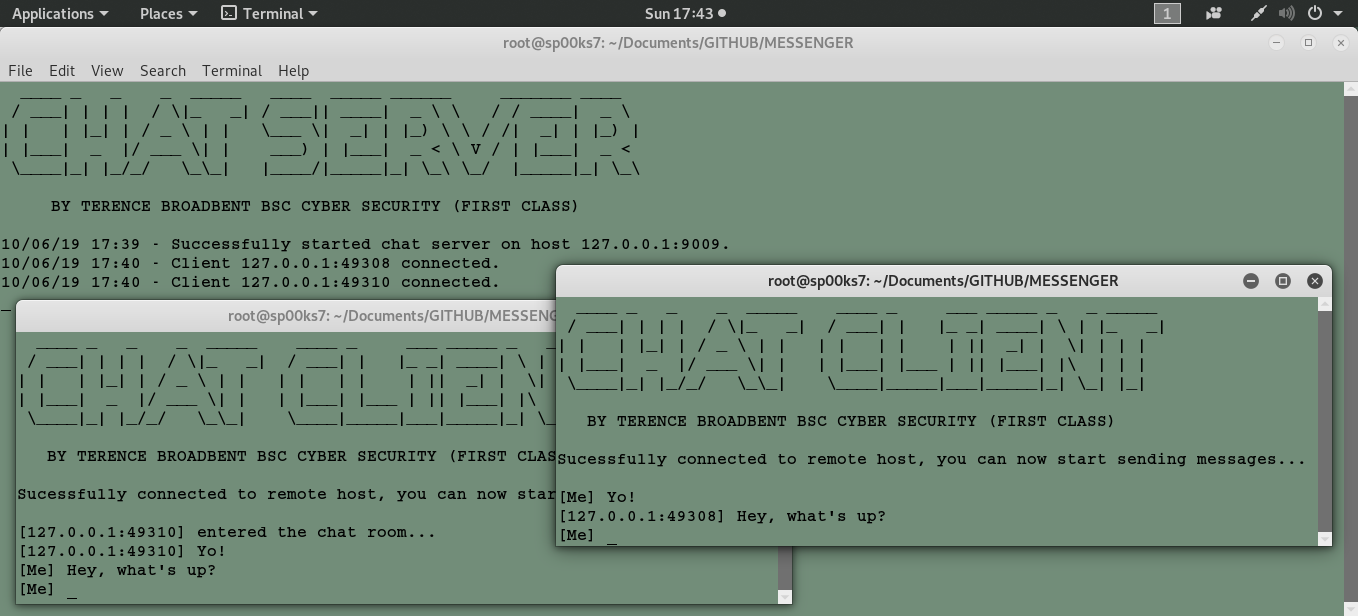
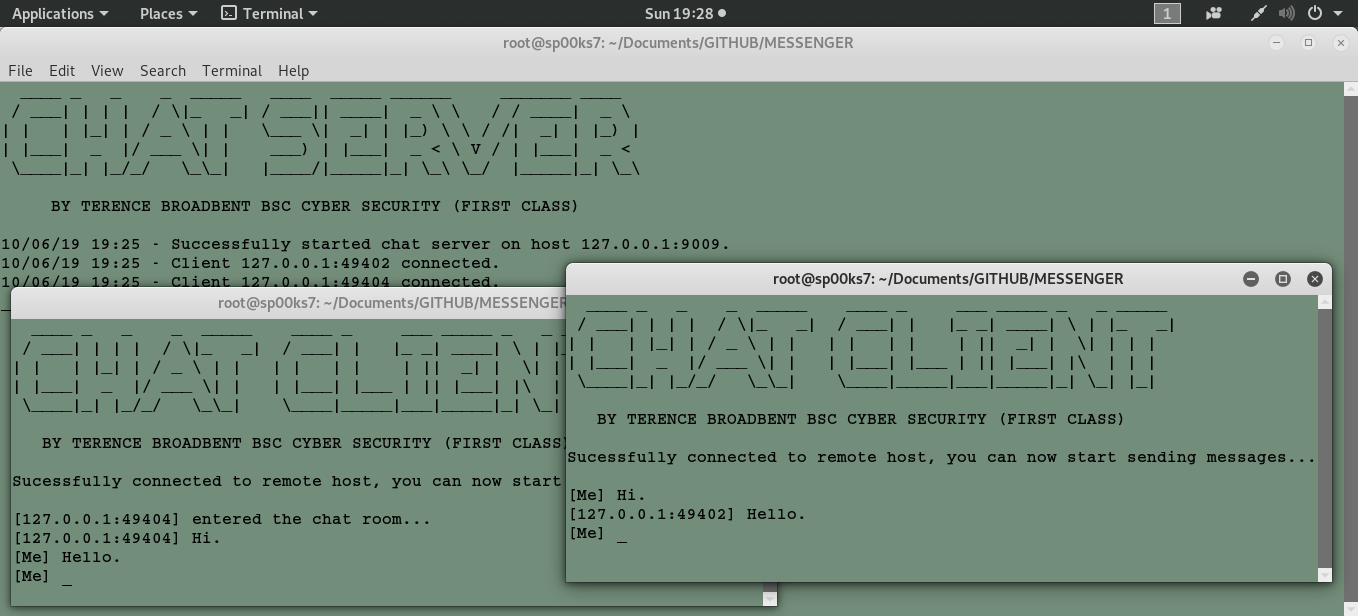
changes

Changed region(s): [[0.0, 0.401, 0.9897, 0.987], [0.4948, 0.0, 0.5258, 0.0308]]

diff --git a/client.py b/client.py
@@ -2,7 +2,7 @@
 # coding:UTF-8
 
 # -------------------------------------------------------------------------------------
-#                      A SIMPLE PYTHON SCRIPT FILE CHAT CLIENT
+#                     A SIMPLE PYTHON SCRIPT FILE - CHAT CLIENT
 #               BY TERENCE BROADBENT BSc CYBER SECURITY (FIRST CLASS)
 # -------------------------------------------------------------------------------------
 
@@ -23,18 +23,18 @@ import select
 # AUTHOR  : Terence Broadbent                                                    
 # CONTRACT: GitHub                                                               
 # Version : 1.0                                                                
-# Details : Display my universal header.
+# Details : Display universal banner.
 # Modified: N/A                                                               
 # -------------------------------------------------------------------------------------
 
 os.system("clear")
-print "\t\t\t\t  ____ _   _    _  _____    ____ _     ___ _____ _   _ _____  "
-print "\t\t\t\t / ___| | | |  / \|_   _|  / ___| |   |_ _| ____| \ | |_   _| "
-print "\t\t\t\t| |   | |_| | / _ \ | |   | |   | |    | ||  _| |  \| | | |   "
-print "\t\t\t\t| |___|  _  |/ ___ \| |   | |___| |___ | || |___| |\  | | |   "
-print "\t\t\t\t \____|_| |_/_/   \_\_|    \____|_____|___|_____|_| \_| |_|   "
-print "\t\t\t\t                                                              "
-print "\t\t\t\t   BY TERENCE BROADBENT BSC CYBER SECURITY (FIRST CLASS)    \n"
+print "  ____ _   _    _  _____    ____ _     ___ _____ _   _ _____  "
+print " / ___| | | |  / \|_   _|  / ___| |   |_ _| ____| \ | |_   _| "
+print "| |   | |_| | / _ \ | |   | |   | |    | ||  _| |  \| | | |   "
+print "| |___|  _  |/ ___ \| |   | |___| |___ | || |___| |\  | | |   "
+print " \____|_| |_/_/   \_\_|    \____|_____|___|_____|_| \_| |_|   "
+print "                                                              "
+print "   BY TERENCE BROADBENT BSC CYBER SECURITY (FIRST CLASS)    \n"
 
 # ------------------------------------------------------------------------------------- 
 # AUTHOR  : Terence Broadbent                                                    
@@ -45,11 +45,12 @@ print "\t\t\t\t   BY TERENCE BROADBENT BSC CYBER SECURITY (FIRST CLASS)    \n"
 # -------------------------------------------------------------------------------------
 
 if(len(sys.argv) < 3):
-   print 'Usage : python client.py hostname port'
+   print "Usage : python client.py host port"
    sys.exit()
 else:
    host = sys.argv[1]
    port = int(sys.argv[2])
+   user = "[Me] "
 
 # ------------------------------------------------------------------------------------- 
 # AUTHOR  : Terence Broadbent                                                    
@@ -59,50 +60,46 @@ else:
 # Modified: N/A
 # -------------------------------------------------------------------------------------
 
-# -------------------------------------------------------------------------------------
-# Main chat client with infinite loop.
-# -------------------------------------------------------------------------------------
+def log(msg):
+   sys.stdout.write(msg)
+   sys.stdout.flush()
  
-def chat_client():   
-   s = socket.socket(socket.AF_INET, socket.SOCK_STREAM)
-   s.settimeout(2)   
-   try :
-      s.connect((host, port))
-   except :
-      print 'Unable to connect?...'
-      sys.exit()     
-
-   print 'Sucessfully connected to remote host, you can now start sending messages...\n'
-   sys.stdout.write('[Me] ')
-   sys.stdout.flush()   
+def client():
+   client = socket.socket(socket.AF_INET, socket.SOCK_STREAM)
+   client.settimeout(2)
+   try:
+      client.connect((host, port))
+      log("Sucessfully connected to remote host, you can now start sending messages...\n\n")
+      log(user)
+   except:
+      log("Unable to connect?...\n")
+      sys.exit()
 
    while 1:
-      socket_list = [sys.stdin, s]
+      socket_list = [sys.stdin, client]
       ready_to_read,ready_to_write,in_error = select.select(socket_list , [], [])
       for sock in ready_to_read:
-         if sock == s:
+         if sock == client:
             data = sock.recv(4096)			# Use 2048 for quicker responce
-            if not data :
-               print '\nDisconnected from chat server...'
+            if not data:
+               log("\n\nDisconnected from chat server?...\n\n")
                sys.exit()
             else :
-               sys.stdout.write(data)
-               sys.stdout.write('[Me] ')
-               sys.stdout.flush()
+               log(data)
+               log(user)
          else :
             msg = sys.stdin.readline()
-            s.send(msg)
-            sys.stdout.write('[Me] ')
-            sys.stdout.flush() 
+            client.send(msg)
+            log(user)
 
 # ------------------------------------------------------------------------------------- 
 # AUTHOR  : Terence Broadbent                                                    
 # CONTRACT: GitHub
-# Version : 1.0                                                                
+# Version : 1.0                                                          	      
 # Details : MAIN - Start the client interface.
 # Modified: N/A
 # -------------------------------------------------------------------------------------
 
-sys.exit(chat_client())
+sys.exit(client())
 
 #Eof

diff --git a/server.py b/server.py
@@ -24,18 +24,18 @@ from datetime import datetime
 # AUTHOR  : Terence Broadbent                                                    
 # CONTRACT: GitHub                                                               
 # Version : 1.0                                                                
-# Details : Display my universal header.
+# Details : Display universal header.
 # Modified: N/A                                                               
 # -------------------------------------------------------------------------------------
 
 os.system("clear")
-print "\t\t\t\t  ____ _   _    _  _____   ____  _____ ______     _______ ____   "
-print "\t\t\t\t / ___| | | |  / \|_   _| / ___|| ____|  _ \ \   / / ____|  _ \  "
-print "\t\t\t\t| |   | |_| | / _ \ | |   \___ \|  _| | |_) \ \ / /|  _| | |_) | "
-print "\t\t\t\t| |___|  _  |/ ___ \| |    ___) | |___|  _ < \ V / | |___|  _ <  "
-print "\t\t\t\t \____|_| |_/_/   \_\_|   |____/|_____|_| \_\ \_/  |_____|_| \_\ "
-print "\t\t\t\t                                                                 "
-print "\t\t\t\t     BY TERENCE BROADBENT BSC CYBER SECURITY (FIRST CLASS)     \n"
+print "  ____ _   _    _  _____   ____  _____ ______     _______ ____   "
+print " / ___| | | |  / \|_   _| / ___|| ____|  _ \ \   / / ____|  _ \  "
+print "| |   | |_| | / _ \ | |   \___ \|  _| | |_) \ \ / /|  _| | |_) | "
+print "| |___|  _  |/ ___ \| |    ___) | |___|  _ < \ V / | |___|  _ <  "
+print " \____|_| |_/_/   \_\_|   |____/|_____|_| \_\ \_/  |_____|_| \_\ "
+print "                                                                 "
+print "     BY TERENCE BROADBENT BSC CYBER SECURITY (FIRST CLASS)     \n"
 
 # ------------------------------------------------------------------------------------- 
 # AUTHOR  : Terence Broadbent                                                    
@@ -49,7 +49,7 @@ host = sys.argv[1]
 port = int(sys.argv[2])
 temp = ""
 socketList = []
-recvBuffer = 4096 					# Use 2048 for quicker responce
+recvBuffer = 4096
 
 # ------------------------------------------------------------------------------------- 
 # AUTHOR  : Terence Broadbent                                                    
@@ -59,9 +59,10 @@ recvBuffer = 4096 					# Use 2048 for quicker responce
 # Modified: N/A
 # -------------------------------------------------------------------------------------
 
-# -------------------------------------------------------------------------------------
-# Main chat server routine with infinite loop.
-# -------------------------------------------------------------------------------------
+def timelog(msg):
+   now = datetime.now()
+   print now.strftime("%x %H:%M"),
+   print msg
 
 def chat_server():
    server_socket = socket.socket(socket.AF_INET, socket.SOCK_STREAM)
@@ -69,9 +70,7 @@ def chat_server():
    server_socket.bind((host, port))
    server_socket.listen(10)
    socketList.append(server_socket)
-   now = datetime.now()
-   print now.strftime("%x %H:%M"),
-   print "- Successfully started chat server on host " + host + ":" + str(port) + "."
+   timelog("- Successfully started chat server on host " + host + ":" + str(port) + ".")
 
    while 1:
       now = datetime.now()
@@ -81,8 +80,7 @@ def chat_server():
             sockfd, addr = server_socket.accept()
             socketList.append(sockfd)
             broadcast(server_socket, sockfd, "\r" + "[%s:%s] entered the chat room...\n" % addr)
-            print now.strftime("%x %H:%M"),
-            print "- Client %s:%s connected." % addr
+            timelog("- Client %s:%s connected." % addr)
          else:
             try:
                data = sock.recv(recvBuffer)
@@ -94,21 +92,12 @@ def chat_server():
                      socketList.remove(sock)
                   temp = str(sock.getpeername()).replace("'","").replace("(","").replace(")","").replace(", ",":")
                   broadcast(server_socket, sock, "\r" + "[" + temp + "] has disconnected...\n")
-                  print now.strftime("%x %H:%M"),
-                  print "- Client " + temp + " disconnected."
+                  timelog("- Client " + temp + " disconnected.")
             except:
-               temp = str(sock.getpeername()).replace("'","").replace("(","").replace(")","").replace(", ",":")
-               broadcast(server_socket, sock, "\r" + "[" + temp + "] is offline...\n")
-               print now.strftime("%x %H:%M"),
-               print "- Client " + temp + " is offline...\n"
-            continue
-
-   server_socket.close()
+               timelog("- Oops!! - Looks like a major error occuried...")
+               server_socket.close()
+               sys.exit()
     
-# -------------------------------------------------------------------------------------
-# Broadcast chat messages to all connected clients and tidy up any redundant clients.
-# -------------------------------------------------------------------------------------
-
 def broadcast (server_socket, sock, message):
    for socket in socketList:
       if socket != server_socket and socket != sock :

diff --git a/README.md b/README.md
@@ -6,8 +6,8 @@ Usage: python client.py localhost 9009
 
 | LANGUAGE  | FILENAME  | MD5 Hash                         |
 |------     |------     | -------                          |
-| python    | server.py | c4a08eb54dfaa0a2a0dd2fee43d3b5b0 |
-| python    | client.py | 2a518780875b9cd12aeec82af23dbaba |
+| python    | server.py | 22d0c51f495837198a721062efdc1c5a |
+| python    | client.py | 31ab999c36ca6108e34d71e8c2303a25 |
 
 - [x] Add any of the following encryption functions to anonymize the datastream.
 
